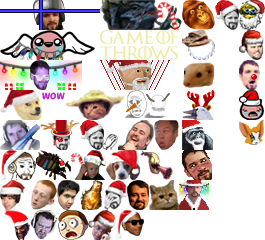
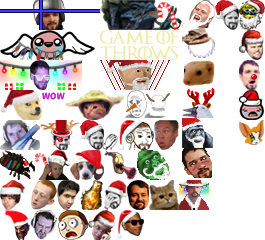
version bump, xmas emote engagement part2

Changed region(s): [[0.0, 0.4958, 0.6642, 0.7583], [0.6642, 0.0, 0.8151, 0.7583], [0.5434, 0.0292, 0.6038, 0.0875]]

diff --git a/static/chat/css/style.min.css b/static/chat/css/style.min.css
@@ -1,1 +1,1 @@
-.nano{position:relative;width:100%;height:100%;overflow:hidden}.nano .content{position:absolute;overflow:scroll;overflow-x:hidden;top:0;right:0;bottom:0;left:0}.nano .content:focus{outline:0}.nano .content::-webkit-scrollbar{visibility:hidden}.has-scrollbar .content::-webkit-scrollbar{visibility:visible}.nano:hover>.pane,.pane.active,.pane.flashed{visibility:visible\9;opacity:.99}.nano>.pane{background:rgba(0,0,0,0.3);position:absolute;width:8px;right:5px;top:0;bottom:0;visibility:hidden\9;opacity:.01;-webkit-transition:.2s;-moz-transition:.2s;-o-transition:.2s;transition:.2s}.nano>.pane>.slider{background:#999;position:relative;margin:0 1px;-moz-border-radius:3px;-webkit-border-radius:3px;border-radius:3px}.nano>.pane>.slider:hover,.nano>.pane.active>.slider{background:#eee}.serif{font-family:"Trebuchet MS",sans-serif}.chat{position:relative;width:100%;height:100%;min-width:300px}.chat-output-frame{margin-bottom:35px;height:auto;width:100%;position:absolute;overflow:hidden;top:0;bottom:0;left:0;right:0}.chat-output{width:100%;height:100%}.chat-output .chat-lines{-webkit-backface-visibility:hidden;-webkit-perspective:1000}.chat-lines>div{clear:both;word-wrap:break-word;padding:3px 20px 3px 5px}.chat-lines>div .continue{user-select:none;color:#444}.chat-lines>div i.continue{user-select:none;color:#222}.chat-lines a.user{font-weight:bold;cursor:pointer;font-family:"Trebuchet MS",sans-serif}.chat-lines hr{margin:8px 0}.chat-lines .msg.emote{font-style:italic}.chat-input{width:100%;position:absolute;bottom:0}#chat-top-frame{position:absolute;top:0;left:0;right:0}#chat-bottom-frame{position:absolute;bottom:35px;left:0;right:0}.chat-input>div{margin:5px 0 0 0;background:#2e2e2e}.chat-tools-wrap{position:absolute;right:0;bottom:0;margin:0;user-select:none;-moz-user-select:none;-webkit-user-select:none}.chat-input-wrap{margin:0;margin-right:60px}#user-mute-form,#user-ban-form{margin-top:10px;display:none}#user-mute-form #banTimeLength{width:150px}.chat-input-control{padding:3px 0 0 5px;height:28px;margin:1px;border-radius:3px}.chat-input-control .input{background:0;resize:none;margin:0;padding:0;width:100%;border:0;border-radius:0;box-shadow:none;box-sizing:border-box}.chat-input-control .input:focus{box-shadow:none}.chat-tools-wrap>div{height:30px;overflow:hidden}.chat-tools-wrap .iconbtn{cursor:pointer;width:30px;height:28px;line-height:28px;float:left;display:block;text-align:center;color:#555}.chat-tools-wrap .iconbtn:hover{color:white}.chat-tools-wrap .iconbtn.active{color:white}.chat .chat-lines i[class^="icon-"]{width:16px;line-height:16px;height:16px;margin:0;opacity:1;display:inline-block;vertical-align:middle}.chat-input-control input,.chat-lines{font-family:Helvetica,"Trebuchet MS",Verdana,sans-serif;font-size:13px;line-height:1.5em}.chat-lines time{font-size:11px}.chat-lines a.externallink{color:#02c2ff}.chat-lines a.externallink:visited{color:#004d74}.chat-lines a.externallink:hover,.chat-lines a.externallink:focus{color:#08c}.chat-lines a.nsfw-link{border-bottom:1px dashed red}.chat .chat-lines time,.chat .user-msg i{display:none!important}.chat.chat-time .chat-lines time,.chat.chat-icons .user-msg i,.chat-lines i[class*='icon-subscriber']{display:inline-block!important}.chat-theme-dark{background:#080808;border-radius:0}.chat-theme-dark .chat-input-wrap{border:0}.chat-theme-dark .chat-lines time{color:#414141}.chat-theme-dark .chat-lines>div.highlight time,.chat-lines>div.highlight .continue{color:#838383}.chat-theme-dark .chat-lines>.command-msg,.chat-theme-dark .chat-lines>.error-msg,.chat-theme-dark .chat-lines>.status-msg,.chat-theme-dark .chat-lines>.ui-msg,.chat-theme-dark .chat-lines>.own-msg,.chat-theme-dark .chat-lines>.highlight{color:#dedede}.chat-theme-dark .chat-lines>.broadcast-msg .msg{color:#edea12}.chat-theme-dark .chat-lines>.broadcast-msg{background:linear-gradient(to right,rgba(255,255,21,0.1) 0,rgba(255,255,255,0) 90%,rgba(255,255,255,0) 100%)}.chat-theme-dark .chat-lines>.own-msg{background:linear-gradient(to right,rgba(255,255,255,0.05) 0,rgba(255,255,255,0.05) 90%,rgba(255,255,255,0) 100%)}.chat-theme-dark .chat-lines>.highlight{background:linear-gradient(to right,rgba(0,150,255,0.5) 0,rgba(0,150,255,0) 100%)}.chat-theme-dark .chat-lines>.command-msg,.chat-theme-dark .chat-lines>.own-msg,.chat-theme-dark .chat-lines>.highlight .msg,.chat-theme-dark .chat-lines>.broadcast-msg .msg{text-shadow:1px 1px 0 rgba(0,0,0,0.5)}.chat-theme-dark .chat-input-control{background:#090909;border:0}.chat-theme-dark .chat-input-control input{color:#9e9e9e;background:#090909;text-shadow:none;outline:0}.chat-theme-dark input:input-placeholder{color:#222}.chat-theme-dark input::-webkit-input-placeholder{color:#222}.chat-theme-dark input:-moz-placeholder{color:#222}.chat-theme-dark input::-moz-placeholder{color:#222}.chat-theme-dark input:-ms-input-placeholder{color:#222}.chat-theme-dark .nano>.pane{background:rgba(0,0,0,0.3);width:8px;right:5px;top:5px;bottom:0}.chat-theme-dark .nano>.pane>.slider{background:#999}.chat-theme-dark .nano>.pane>.slider:hover,.chat-theme-dark .nano>.pane.active>.slider{background:#eee}.chat.focus-user .chat-lines>.user-msg{opacity:.3}.chat.focus-user .chat-lines>.user-msg.focused,.chat.focus-user .chat-lines>.user-msg.highlight{opacity:1}.chat .alert{margin-bottom:0;padding-top:4px;padding-bottom:4px;font-size:12px}.hint-popup,.user-tools{width:100%;top:-5px;left:0}.hint-popup>div,.user-tools>div,#chat-broadcasts>div{border-radius:4px;margin:5px 20px 5px 5px}.user-tools .user-tools-user{font-family:"Trebuchet MS",sans-serif}#chat-broadcasts .chat-emote{display:none}.hint-popup>div{box-shadow:0 2px 6px rgba(0,0,0,0.9);padding:0}.hint-popup a:hover{cursor:pointer;color:#6aa7f9}.hint-popup .hidehint,.hint-popup .nexthint{top:0;position:relative;float:right;right:-23px;line-height:20px;-webkit-touch-callout:none;-webkit-user-select:none;-khtml-user-select:none;-moz-user-select:none;-ms-user-select:none;user-select:none;color:#CCC}.hint-popup .hidehint{right:-27px}.hint-popup .hidehint:hover,.hint-popup .nexthint:hover{color:#111}.hint-popup .alert{padding-right:35px}.user-tools-wrap{margin-left:-5px}.user-tools-wrap>a{margin:0 5px}.chat-menu,.user-tools,.hint-popup{display:none;opacity:0}.chat-menu.active,.user-tools.active,.hint-popup.active{display:block;opacity:1}.chat-menu,.user-tools,.hint-popup{font-size:12px}.chat-menu{position:absolute;right:20px;bottom:-5px;width:240px}.chat-menu.active{bottom:0}.chat-menu h5,.user-tools h5{text-shadow:-1px -1px 0 rgba(0,0,0,0.25);user-select:none;-moz-user-select:none;-webkit-user-select:none;background:#4f4f4f;background:linear-gradient(to bottom,#4f4f4f 0,#2e2e2e 100%);border-bottom:1px solid #121212;margin:0;line-height:20px;display:block;padding:5px 15px 5px 10px;border-radius:4px 4px 0 0}.chat-menu .toolbar{width:100%;position:absolute;top:-31px;left:0}.chat-menu li,.chat-menu label{font-size:12px}.chat-menu label{font-weight:normal;margin:0 0 5px 0}.chat-menu label:hover{color:white}.chat-menu .list-wrap,.chat-menu .list-wrap .scrollable{max-height:330px;font-size:.9em}.chat-menu .list-wrap,.user-tools>div{box-shadow:0 2px 6px rgba(0,0,0,0.9);border-radius:0 0 4px 4px;background:rgba(25,25,25,0.9);padding:0}.chat-menu .list-wrap{margin-top:auto}.chat-menu ul,.user-tools .tools{padding:0 10px;margin:10px 0}.chat-menu ul>li:first-child h5{margin-top:0}.chat-menu ul li{text-overflow:ellipsis;overflow:hidden}#chat-user-list ul li{line-height:18px}#chat-user-list h6:first-child{margin-top:10px}#chat-user-list h6{font-weight:bold;margin:0 0 5px 5px}#chat-user-list hr{margin:5px 0}#chat-user-list ul{margin:0}#chat-user-list .user{cursor:pointer;font-family:"Trebuchet MS",sans-serif}.user-tools a#unignoreuser,.user-tools.user-ignored a#ignoreuser{display:none}.user-tools.user-ignored a#unignoreuser{display:inline-block}.chat-menu .nano>.pane{width:8px;right:3px;top:3px;bottom:3px}.chat-login-msg{display:inline-block;width:100%;padding:0 0 0 5px;line-height:30px;color:rgba(255,255,255,0.5);text-shadow:-1px -1px 0 rgba(0,0,0,0.25)}.chat-lines .emotecount{color:white;text-shadow:1px 1px 0 rgba(0,0,0,0.9);font-size:10px;line-height:10px;border-radius:10px;padding:3px 6px;margin:0 0 0 5px;background:#191919}.chat-lines .emotecount{text-shadow:none;animation:emotecount 600ms 1;-webkit-animation:emotecount 600ms 1}@keyframes emotecount{from{color:black;background-color:white}to{color:white;background-color:#333}}@-webkit-keyframes emotecount{from{color:black;background-color:white}to{color:white;background-color:#333}}.chat-lines .emotecount.x5>span{font-size:10px}.chat-lines .emotecount.x10>span{font-size:16px}.chat-lines .emotecount.x20>span{font-size:25px;vertical-align:middle}.chat-lines .emotecount.x30>span{font-size:35px;vertical-align:middle}.chat-lines .emotecount.x50>span{font-size:40px;vertical-align:middle}.chat a.user{color:#cacaca}.chat a.user:hover{color:#fafafa}.chat a.subscriber{color:#488ce7}.chat a.subscriber:hover{color:#6aa7f9}.chat a.flair3{color:#0060ff;text-shadow:1px 1px 0 black}.chat a.flair3:hover{color:#6aa7f9}.chat a.flair8{color:#a427d6;text-shadow:1px 1px 0 black}.chat a.flair8:hover{color:#e564f4}.chat a.vip{color:#4db524}.chat a.vip:hover{color:#4db524}.chat a.bot{color:#e79015}.chat a.bot:hover{color:#e79015}.chat a.admin{color:#b91010}.chat a.admin:hover{color:#f00}.chat .greentext{color:#6ca528}.chat-emote{display:inline-block;position:relative;top:10px;margin:0 2px}.chat-emote.chat-emote-OverRustle{animation:rustle 100ms 7;-webkit-animation:rustle 100ms 7}.chat-emote.chat-emote-OverRustle:hover{animation:rustle1 100ms infinite;-webkit-animation:rustle1 100ms infinite}@keyframes rustle{from{left:0}to{left:2px}}@-webkit-keyframes rustle{from{left:0}to{left:2px}}@keyframes rustle1{from{left:0}to{left:2px}}@-webkit-keyframes rustle1{from{left:0}to{left:2px}}.chat-emote.chat-emote-AYYYLMAO,.chat-emote.chat-emote-AngelThump,.chat-emote.chat-emote-WORTH,.chat-emote.chat-emote-Abathur,.chat-emote.chat-emote-GameOfThrows,.chat-emote.chat-emote-DANKMEMES,.chat-emote.chat-emote-SoDoge,.chat-emote.chat-emote-KINGSLY,.chat-emote.chat-emote-SoSad,.chat-emote.chat-emote-SOTRIGGERED,.chat-emote.chat-emote-DappaKappa,.chat-emote.chat-emote-Klappa,.chat-emote.chat-emote-LUL,.chat-emote.chat-emote-DaFeels,.chat-emote.chat-emote-INFESTINY,.chat-emote.chat-emote-FeedNathan,.chat-emote.chat-emote-FrankerZ,.chat-emote.chat-emote-SURPRISE,.chat-emote.chat-emote-OverRustle,.chat-emote.chat-emote-Hhhehhehe,.chat-emote.chat-emote-FerretLOL,.chat-emote.chat-emote-DuckerZ,.chat-emote.chat-emote-NoTears,.chat-emote.chat-emote-DestiSenpaii,.chat-emote.chat-emote-CallChad,.chat-emote.chat-emote-WhoahDude,.chat-emote.chat-emote-UWOTM8,.chat-emote.chat-emote-TooSpicy,.chat-emote.chat-emote-Sippy,.chat-emote.chat-emote-OhKrappa,.chat-emote.chat-emote-Nappa,.chat-emote.chat-emote-MotherFuckinGame,.chat-emote.chat-emote-MLADY,.chat-emote.chat-emote-Kappa,.chat-emote.chat-emote-Heimerdonger,.chat-emote.chat-emote-Dravewin,.chat-emote.chat-emote-Disgustiny,.chat-emote.chat-emote-DatGeoff,.chat-emote.chat-emote-DURRSTINY,.chat-emote.chat-emote-DAFUK,.chat-emote.chat-emote-CallCatz,.chat-emote.chat-emote-BibleThump,.chat-emote.chat-emote-BasedGod,.chat-emote.chat-emote-FIDGETLOL{background-image:url('../img/emoticons.png');background-repeat:no-repeat}.chat-emote.chat-emote-AYYYLMAO{background-position:0 0;width:100px;height:30px;margin-top:-30px}.chat-emote.chat-emote-AngelThump{background-position:0 -30px;width:95px;height:30px;margin-top:-30px}.chat-emote.chat-emote-WORTH{background-position:0 -60px;width:82px;height:30px;margin-top:-30px}.chat-emote.chat-emote-Abathur{background-position:-100px 0;width:82px;height:30px;margin-top:-30px}.chat-emote.chat-emote-GameOfThrows{background-position:-100px -30px;width:79px;height:30px;margin-top:-30px}.chat-emote.chat-emote-DANKMEMES{background-position:-100px -60px;width:71px;height:30px;margin-top:-30px}.chat-emote.chat-emote-SoDoge{background-position:0 -90px;width:65px;height:30px;margin-top:-30px}.chat-emote.chat-emote-KINGSLY{background-position:-65px -90px;width:60px;height:30px;margin-top:-30px}.chat-emote.chat-emote-SoSad{background-position:-125px -90px;width:45px;height:28px;margin-top:-28px}.chat-emote.chat-emote-SOTRIGGERED{background-position:0 -120px;width:40px;height:30px;margin-top:-30px}.chat-emote.chat-emote-DappaKappa{background-position:-40px -120px;width:40px;height:30px;margin-top:-30px}.chat-emote.chat-emote-Klappa{background-position:-80px -120px;width:38px;height:30px;margin-top:-30px}.chat-emote.chat-emote-LUL{background-position:-118px -120px;width:36px;height:30px;margin-top:-30px}.chat-emote.chat-emote-DaFeels{background-position:0 -150px;width:36px;height:30px;margin-top:-30px}.chat-emote.chat-emote-INFESTINY{background-position:-36px -150px;width:35px;height:30px;margin-top:-30px}.chat-emote.chat-emote-FeedNathan{background-position:-71px -150px;width:35px;height:30px;margin-top:-30px}.chat-emote.chat-emote-FrankerZ{background-position:-106px -150px;width:34px;height:30px;margin-top:-30px}.chat-emote.chat-emote-SURPRISE{background-position:-140px -150px;width:33px;height:30px;margin-top:-30px}.chat-emote.chat-emote-OverRustle{background-position:-182px 0;width:33px;height:30px;margin-top:-30px}.chat-emote.chat-emote-Hhhehhehe{background-position:-182px -30px;width:33px;height:30px;margin-top:-30px}.chat-emote.chat-emote-FerretLOL{background-position:-182px -60px;width:33px;height:30px;margin-top:-30px}.chat-emote.chat-emote-DuckerZ{background-position:-182px -90px;width:33px;height:30px;margin-top:-30px}.chat-emote.chat-emote-NoTears{background-position:-182px -120px;width:31px;height:30px;margin-top:-30px}.chat-emote.chat-emote-DestiSenpaii{background-position:-182px -150px;width:31px;height:30px;margin-top:-30px}.chat-emote.chat-emote-CallChad{background-position:0 -180px;width:31px;height:30px;margin-top:-30px}.chat-emote.chat-emote-WhoahDude{background-position:-154px -120px;width:25px;height:30px;margin-top:-30px}.chat-emote.chat-emote-UWOTM8{background-position:-31px -180px;width:26px;height:30px;margin-top:-30px}.chat-emote.chat-emote-TooSpicy{background-position:-57px -180px;width:23px;height:30px;margin-top:-30px}.chat-emote.chat-emote-Sippy{background-position:-80px -180px;width:24px;height:30px;margin-top:-30px}.chat-emote.chat-emote-OhKrappa{background-position:-104px -180px;width:23px;height:30px;margin-top:-30px}.chat-emote.chat-emote-Nappa{background-position:-127px -180px;width:22px;height:30px;margin-top:-30px}.chat-emote.chat-emote-MotherFuckinGame{background-position:-149px -180px;width:30px;height:30px;margin-top:-30px}.chat-emote.chat-emote-MLADY{background-position:-179px -180px;width:30px;height:30px;margin-top:-30px}.chat-emote.chat-emote-Kappa{background-position:-215px 0;width:24px;height:30px;margin-top:-30px}.chat-emote.chat-emote-Heimerdonger{background-position:-239px 0;width:26px;height:30px;margin-top:-30px}.chat-emote.chat-emote-Dravewin{background-position:0 -210px;width:30px;height:30px;margin-top:-30px}.chat-emote.chat-emote-Disgustiny{background-position:-30px -210px;width:28px;height:30px;margin-top:-30px}.chat-emote.chat-emote-DatGeoff{background-position:-239px -30px;width:25px;height:30px;margin-top:-30px}.chat-emote.chat-emote-DURRSTINY{background-position:-239px -60px;width:21px;height:30px;margin-top:-30px}.chat-emote.chat-emote-DAFUK{background-position:-58px -210px;width:30px;height:30px;margin-top:-30px}.chat-emote.chat-emote-CallCatz{background-position:-88px -210px;width:28px;height:30px;margin-top:-30px}.chat-emote.chat-emote-BibleThump{background-position:-239px -90px;width:25px;height:30px;margin-top:-30px}.chat-emote.chat-emote-BasedGod{background-position:-116px -210px;width:28px;height:29px;margin-top:-29px}.chat-emote.chat-emote-FIDGETLOL{background-position:-239px -120px;width:25px;height:25px;margin-top:-25px}.icon-subscriber,.icon-subscribert2,.icon-subscribert3,.icon-subscribert4{-webkit-transform:rotate(0deg);-webkit-transition:rotate .2s ease-in-out;-moz-transition:rotate .2s ease-in-out;-o-transition:rotate .2s ease-in-out;transition:rotate .2s ease-in-out}.icon-subscriber:hover,.icon-subscribert2:hover,.icon-subscribert3:hover,.icon-subscribert4:hover{-moz-animation:spin 3s infinite linear;-webkit-animation:spin 3s infinite linear}.icon-vip:hover,.icon-vip,.icon-trusted,.icon-subscribert4,.icon-subscribert3,.icon-subscribert2,.icon-subscriber,.icon-status,.icon-notable,.icon-moderator,.icon-info,.icon-evenotable,.icon-error,.icon-contributor,.icon-compchallenge:hover,.icon-compchallenge,.icon-command,.icon-bot:hover,.icon-bot,.icon-admin:hover,.icon-admin{background-image:url('../img/icons.png');background-repeat:no-repeat}.icon-vip:hover{background-position:0 0;width:16px;height:16px}.icon-vip{background-position:-16px 0;width:16px;height:16px}.icon-trusted{background-position:0 -16px;width:16px;height:16px}.icon-subscribert4{background-position:-16px -16px;width:16px;height:16px}.icon-subscribert3{background-position:-32px 0;width:16px;height:16px}.icon-subscribert2{background-position:-32px -16px;width:16px;height:16px}.icon-subscriber{background-position:0 -32px;width:16px;height:16px}.icon-status{background-position:-16px -32px;width:16px;height:16px}.icon-notable{background-position:-32px -32px;width:16px;height:16px}.icon-moderator{background-position:-48px 0;width:16px;height:16px}.icon-info{background-position:-48px -16px;width:16px;height:16px}.icon-evenotable{background-position:-48px -32px;width:16px;height:16px}.icon-error{background-position:0 -48px;width:16px;height:16px}.icon-contributor{background-position:-16px -48px;width:16px;height:16px}.icon-compchallenge:hover{background-position:-32px -48px;width:16px;height:16px}.icon-compchallenge{background-position:-48px -48px;width:16px;height:16px}.icon-command{background-position:-64px 0;width:16px;height:16px}.icon-bot:hover{background-position:-64px -16px;width:16px;height:16px}.icon-bot{background-position:-64px -32px;width:16px;height:16px}.icon-admin:hover{background-position:-64px -48px;width:16px;height:16px}.icon-admin{background-position:0 -64px;width:16px;height:16px}
+.nano{position:relative;width:100%;height:100%;overflow:hidden}.nano .content{position:absolute;overflow:scroll;overflow-x:hidden;top:0;right:0;bottom:0;left:0}.nano .content:focus{outline:0}.nano .content::-webkit-scrollbar{visibility:hidden}.has-scrollbar .content::-webkit-scrollbar{visibility:visible}.nano:hover>.pane,.pane.active,.pane.flashed{visibility:visible\9;opacity:.99}.nano>.pane{background:rgba(0,0,0,0.3);position:absolute;width:8px;right:5px;top:0;bottom:0;visibility:hidden\9;opacity:.01;-webkit-transition:.2s;-moz-transition:.2s;-o-transition:.2s;transition:.2s}.nano>.pane>.slider{background:#999;position:relative;margin:0 1px;-moz-border-radius:3px;-webkit-border-radius:3px;border-radius:3px}.nano>.pane>.slider:hover,.nano>.pane.active>.slider{background:#eee}.serif{font-family:"Trebuchet MS",sans-serif}.chat{position:relative;width:100%;height:100%;min-width:300px}.chat-output-frame{margin-bottom:35px;height:auto;width:100%;position:absolute;overflow:hidden;top:0;bottom:0;left:0;right:0}.chat-output{width:100%;height:100%}.chat-output .chat-lines{-webkit-backface-visibility:hidden;-webkit-perspective:1000}.chat-lines>div{clear:both;word-wrap:break-word;padding:3px 20px 3px 5px}.chat-lines>div .continue{user-select:none;color:#444}.chat-lines>div i.continue{user-select:none;color:#222}.chat-lines a.user{font-weight:bold;cursor:pointer;font-family:"Trebuchet MS",sans-serif}.chat-lines hr{margin:8px 0}.chat-lines .msg.emote{font-style:italic}.chat-input{width:100%;position:absolute;bottom:0}#chat-top-frame{position:absolute;top:0;left:0;right:0}#chat-bottom-frame{position:absolute;bottom:35px;left:0;right:0}.chat-input>div{margin:5px 0 0 0;background:#2e2e2e}.chat-tools-wrap{position:absolute;right:0;bottom:0;margin:0;user-select:none;-moz-user-select:none;-webkit-user-select:none}.chat-input-wrap{margin:0;margin-right:60px}#user-mute-form,#user-ban-form{margin-top:10px;display:none}#user-mute-form #banTimeLength{width:150px}.chat-input-control{padding:3px 0 0 5px;height:28px;margin:1px;border-radius:3px}.chat-input-control .input{background:0;resize:none;margin:0;padding:0;width:100%;border:0;border-radius:0;box-shadow:none;box-sizing:border-box}.chat-input-control .input:focus{box-shadow:none}.chat-tools-wrap>div{height:30px;overflow:hidden}.chat-tools-wrap .iconbtn{cursor:pointer;width:30px;height:28px;line-height:28px;float:left;display:block;text-align:center;color:#555}.chat-tools-wrap .iconbtn:hover{color:white}.chat-tools-wrap .iconbtn.active{color:white}.chat .chat-lines i[class^="icon-"]{width:16px;line-height:16px;height:16px;margin:0;opacity:1;display:inline-block;vertical-align:middle}.chat-input-control input,.chat-lines{font-family:Helvetica,"Trebuchet MS",Verdana,sans-serif;font-size:13px;line-height:1.5em}.chat-lines time{font-size:11px}.chat-lines a.externallink{color:#02c2ff}.chat-lines a.externallink:visited{color:#004d74}.chat-lines a.externallink:hover,.chat-lines a.externallink:focus{color:#08c}.chat-lines a.nsfw-link{border-bottom:1px dashed red}.chat .chat-lines time,.chat .user-msg i{display:none!important}.chat.chat-time .chat-lines time,.chat.chat-icons .user-msg i,.chat-lines i[class*='icon-subscriber']{display:inline-block!important}.chat-theme-dark{background:#080808;border-radius:0}.chat-theme-dark .chat-input-wrap{border:0}.chat-theme-dark .chat-lines time{color:#414141}.chat-theme-dark .chat-lines>div.highlight time,.chat-lines>div.highlight .continue{color:#838383}.chat-theme-dark .chat-lines>.command-msg,.chat-theme-dark .chat-lines>.error-msg,.chat-theme-dark .chat-lines>.status-msg,.chat-theme-dark .chat-lines>.ui-msg,.chat-theme-dark .chat-lines>.own-msg,.chat-theme-dark .chat-lines>.highlight{color:#dedede}.chat-theme-dark .chat-lines>.broadcast-msg .msg{color:#edea12}.chat-theme-dark .chat-lines>.broadcast-msg{background:linear-gradient(to right,rgba(255,255,21,0.1) 0,rgba(255,255,255,0) 90%,rgba(255,255,255,0) 100%)}.chat-theme-dark .chat-lines>.own-msg{background:linear-gradient(to right,rgba(255,255,255,0.05) 0,rgba(255,255,255,0.05) 90%,rgba(255,255,255,0) 100%)}.chat-theme-dark .chat-lines>.highlight{background:linear-gradient(to right,rgba(0,150,255,0.5) 0,rgba(0,150,255,0) 100%)}.chat-theme-dark .chat-lines>.command-msg,.chat-theme-dark .chat-lines>.own-msg,.chat-theme-dark .chat-lines>.highlight .msg,.chat-theme-dark .chat-lines>.broadcast-msg .msg{text-shadow:1px 1px 0 rgba(0,0,0,0.5)}.chat-theme-dark .chat-input-control{background:#090909;border:0}.chat-theme-dark .chat-input-control input{color:#9e9e9e;background:#090909;text-shadow:none;outline:0}.chat-theme-dark input:input-placeholder{color:#222}.chat-theme-dark input::-webkit-input-placeholder{color:#222}.chat-theme-dark input:-moz-placeholder{color:#222}.chat-theme-dark input::-moz-placeholder{color:#222}.chat-theme-dark input:-ms-input-placeholder{color:#222}.chat-theme-dark .nano>.pane{background:rgba(0,0,0,0.3);width:8px;right:5px;top:5px;bottom:0}.chat-theme-dark .nano>.pane>.slider{background:#999}.chat-theme-dark .nano>.pane>.slider:hover,.chat-theme-dark .nano>.pane.active>.slider{background:#eee}.chat.focus-user .chat-lines>.user-msg{opacity:.3}.chat.focus-user .chat-lines>.user-msg.focused,.chat.focus-user .chat-lines>.user-msg.highlight{opacity:1}.chat .alert{margin-bottom:0;padding-top:4px;padding-bottom:4px;font-size:12px}.hint-popup,.user-tools{width:100%;top:-5px;left:0}.hint-popup>div,.user-tools>div,#chat-broadcasts>div{border-radius:4px;margin:5px 20px 5px 5px}.user-tools .user-tools-user{font-family:"Trebuchet MS",sans-serif}#chat-broadcasts .chat-emote{display:none}.hint-popup>div{box-shadow:0 2px 6px rgba(0,0,0,0.9);padding:0}.hint-popup a:hover{cursor:pointer;color:#6aa7f9}.hint-popup .hidehint,.hint-popup .nexthint{top:0;position:relative;float:right;right:-23px;line-height:20px;-webkit-touch-callout:none;-webkit-user-select:none;-khtml-user-select:none;-moz-user-select:none;-ms-user-select:none;user-select:none;color:#CCC}.hint-popup .hidehint{right:-27px}.hint-popup .hidehint:hover,.hint-popup .nexthint:hover{color:#111}.hint-popup .alert{padding-right:35px}.user-tools-wrap{margin-left:-5px}.user-tools-wrap>a{margin:0 5px}.chat-menu,.user-tools,.hint-popup{display:none;opacity:0}.chat-menu.active,.user-tools.active,.hint-popup.active{display:block;opacity:1}.chat-menu,.user-tools,.hint-popup{font-size:12px}.chat-menu{position:absolute;right:20px;bottom:-5px;width:240px}.chat-menu.active{bottom:0}.chat-menu h5,.user-tools h5{text-shadow:-1px -1px 0 rgba(0,0,0,0.25);user-select:none;-moz-user-select:none;-webkit-user-select:none;background:#4f4f4f;background:linear-gradient(to bottom,#4f4f4f 0,#2e2e2e 100%);border-bottom:1px solid #121212;margin:0;line-height:20px;display:block;padding:5px 15px 5px 10px;border-radius:4px 4px 0 0}.chat-menu .toolbar{width:100%;position:absolute;top:-31px;left:0}.chat-menu li,.chat-menu label{font-size:12px}.chat-menu label{font-weight:normal;margin:0 0 5px 0}.chat-menu label:hover{color:white}.chat-menu .list-wrap,.chat-menu .list-wrap .scrollable{max-height:330px;font-size:.9em}.chat-menu .list-wrap,.user-tools>div{box-shadow:0 2px 6px rgba(0,0,0,0.9);border-radius:0 0 4px 4px;background:rgba(25,25,25,0.9);padding:0}.chat-menu .list-wrap{margin-top:auto}.chat-menu ul,.user-tools .tools{padding:0 10px;margin:10px 0}.chat-menu ul>li:first-child h5{margin-top:0}.chat-menu ul li{text-overflow:ellipsis;overflow:hidden}#chat-user-list ul li{line-height:18px}#chat-user-list h6:first-child{margin-top:10px}#chat-user-list h6{font-weight:bold;margin:0 0 5px 5px}#chat-user-list hr{margin:5px 0}#chat-user-list ul{margin:0}#chat-user-list .user{cursor:pointer;font-family:"Trebuchet MS",sans-serif}.user-tools a#unignoreuser,.user-tools.user-ignored a#ignoreuser{display:none}.user-tools.user-ignored a#unignoreuser{display:inline-block}.chat-menu .nano>.pane{width:8px;right:3px;top:3px;bottom:3px}.chat-login-msg{display:inline-block;width:100%;padding:0 0 0 5px;line-height:30px;color:rgba(255,255,255,0.5);text-shadow:-1px -1px 0 rgba(0,0,0,0.25)}.chat-lines .emotecount{color:white;text-shadow:1px 1px 0 rgba(0,0,0,0.9);font-size:10px;line-height:10px;border-radius:10px;padding:3px 6px;margin:0 0 0 5px;background:#191919}.chat-lines .emotecount{text-shadow:none;animation:emotecount 600ms 1;-webkit-animation:emotecount 600ms 1}@keyframes emotecount{from{color:black;background-color:white}to{color:white;background-color:#333}}@-webkit-keyframes emotecount{from{color:black;background-color:white}to{color:white;background-color:#333}}.chat-lines .emotecount.x5>span{font-size:10px}.chat-lines .emotecount.x10>span{font-size:16px}.chat-lines .emotecount.x20>span{font-size:25px;vertical-align:middle}.chat-lines .emotecount.x30>span{font-size:35px;vertical-align:middle}.chat-lines .emotecount.x50>span{font-size:40px;vertical-align:middle}.chat a.user{color:#cacaca}.chat a.user:hover{color:#fafafa}.chat a.subscriber{color:#488ce7}.chat a.subscriber:hover{color:#6aa7f9}.chat a.flair3{color:#0060ff;text-shadow:1px 1px 0 black}.chat a.flair3:hover{color:#6aa7f9}.chat a.flair8{color:#a427d6;text-shadow:1px 1px 0 black}.chat a.flair8:hover{color:#e564f4}.chat a.vip{color:#4db524}.chat a.vip:hover{color:#4db524}.chat a.bot{color:#e79015}.chat a.bot:hover{color:#e79015}.chat a.admin{color:#b91010}.chat a.admin:hover{color:#f00}.chat .greentext{color:#6ca528}.chat-emote{display:inline-block;position:relative;top:10px;margin:0 2px}.chat-emote.chat-emote-OverRustle{animation:rustle 100ms 7;-webkit-animation:rustle 100ms 7}.chat-emote.chat-emote-OverRustle:hover{animation:rustle1 100ms infinite;-webkit-animation:rustle1 100ms infinite}@keyframes rustle{from{left:0}to{left:2px}}@-webkit-keyframes rustle{from{left:0}to{left:2px}}@keyframes rustle1{from{left:0}to{left:2px}}@-webkit-keyframes rustle1{from{left:0}to{left:2px}}.chat-emote.chat-emote-AYYYLMAO,.chat-emote.chat-emote-AngelThump,.chat-emote.chat-emote-WORTH,.chat-emote.chat-emote-Abathur,.chat-emote.chat-emote-GameOfThrows,.chat-emote.chat-emote-DANKMEMES,.chat-emote.chat-emote-SoDoge,.chat-emote.chat-emote-KINGSLY,.chat-emote.chat-emote-SoSad,.chat-emote.chat-emote-SOTRIGGERED,.chat-emote.chat-emote-DappaKappa,.chat-emote.chat-emote-Klappa,.chat-emote.chat-emote-DaFeels,.chat-emote.chat-emote-INFESTINY,.chat-emote.chat-emote-FeedNathan,.chat-emote.chat-emote-FrankerZ,.chat-emote.chat-emote-SURPRISE,.chat-emote.chat-emote-OverRustle,.chat-emote.chat-emote-LUL,.chat-emote.chat-emote-Hhhehhehe,.chat-emote.chat-emote-FerretLOL,.chat-emote.chat-emote-DuckerZ,.chat-emote.chat-emote-NoTears,.chat-emote.chat-emote-DestiSenpaii,.chat-emote.chat-emote-CallChad,.chat-emote.chat-emote-WhoahDude,.chat-emote.chat-emote-UWOTM8,.chat-emote.chat-emote-TooSpicy,.chat-emote.chat-emote-Sippy,.chat-emote.chat-emote-OhKrappa,.chat-emote.chat-emote-Nappa,.chat-emote.chat-emote-MotherFuckinGame,.chat-emote.chat-emote-MLADY,.chat-emote.chat-emote-Kappa,.chat-emote.chat-emote-Heimerdonger,.chat-emote.chat-emote-Dravewin,.chat-emote.chat-emote-Disgustiny,.chat-emote.chat-emote-DatGeoff,.chat-emote.chat-emote-DURRSTINY,.chat-emote.chat-emote-DAFUK,.chat-emote.chat-emote-CallCatz,.chat-emote.chat-emote-BibleThump,.chat-emote.chat-emote-BasedGod,.chat-emote.chat-emote-FIDGETLOL{background-image:url('../img/emoticons.png');background-repeat:no-repeat}.chat-emote.chat-emote-AYYYLMAO{background-position:0 0;width:100px;height:30px;margin-top:-30px}.chat-emote.chat-emote-AngelThump{background-position:0 -30px;width:95px;height:30px;margin-top:-30px}.chat-emote.chat-emote-WORTH{background-position:0 -60px;width:82px;height:30px;margin-top:-30px}.chat-emote.chat-emote-Abathur{background-position:-100px 0;width:82px;height:30px;margin-top:-30px}.chat-emote.chat-emote-GameOfThrows{background-position:-100px -30px;width:79px;height:30px;margin-top:-30px}.chat-emote.chat-emote-DANKMEMES{background-position:-100px -60px;width:71px;height:30px;margin-top:-30px}.chat-emote.chat-emote-SoDoge{background-position:0 -90px;width:65px;height:30px;margin-top:-30px}.chat-emote.chat-emote-KINGSLY{background-position:-65px -90px;width:60px;height:30px;margin-top:-30px}.chat-emote.chat-emote-SoSad{background-position:-125px -90px;width:45px;height:28px;margin-top:-28px}.chat-emote.chat-emote-SOTRIGGERED{background-position:0 -120px;width:40px;height:30px;margin-top:-30px}.chat-emote.chat-emote-DappaKappa{background-position:-40px -120px;width:40px;height:30px;margin-top:-30px}.chat-emote.chat-emote-Klappa{background-position:-80px -120px;width:38px;height:30px;margin-top:-30px}.chat-emote.chat-emote-DaFeels{background-position:-118px -120px;width:36px;height:30px;margin-top:-30px}.chat-emote.chat-emote-INFESTINY{background-position:0 -150px;width:35px;height:30px;margin-top:-30px}.chat-emote.chat-emote-FeedNathan{background-position:-35px -150px;width:35px;height:30px;margin-top:-30px}.chat-emote.chat-emote-FrankerZ{background-position:-70px -150px;width:34px;height:30px;margin-top:-30px}.chat-emote.chat-emote-SURPRISE{background-position:-104px -150px;width:33px;height:30px;margin-top:-30px}.chat-emote.chat-emote-OverRustle{background-position:-137px -150px;width:33px;height:30px;margin-top:-30px}.chat-emote.chat-emote-LUL{background-position:-182px 0;width:33px;height:28px;margin-top:-28px}.chat-emote.chat-emote-Hhhehhehe{background-position:-182px -28px;width:33px;height:30px;margin-top:-30px}.chat-emote.chat-emote-FerretLOL{background-position:-182px -58px;width:33px;height:30px;margin-top:-30px}.chat-emote.chat-emote-DuckerZ{background-position:-182px -88px;width:33px;height:30px;margin-top:-30px}.chat-emote.chat-emote-NoTears{background-position:-182px -118px;width:31px;height:30px;margin-top:-30px}.chat-emote.chat-emote-DestiSenpaii{background-position:-182px -148px;width:31px;height:30px;margin-top:-30px}.chat-emote.chat-emote-CallChad{background-position:0 -180px;width:31px;height:30px;margin-top:-30px}.chat-emote.chat-emote-WhoahDude{background-position:-154px -120px;width:25px;height:30px;margin-top:-30px}.chat-emote.chat-emote-UWOTM8{background-position:-31px -180px;width:26px;height:30px;margin-top:-30px}.chat-emote.chat-emote-TooSpicy{background-position:-57px -180px;width:23px;height:30px;margin-top:-30px}.chat-emote.chat-emote-Sippy{background-position:-80px -180px;width:24px;height:30px;margin-top:-30px}.chat-emote.chat-emote-OhKrappa{background-position:-104px -180px;width:23px;height:30px;margin-top:-30px}.chat-emote.chat-emote-Nappa{background-position:-127px -180px;width:22px;height:30px;margin-top:-30px}.chat-emote.chat-emote-MotherFuckinGame{background-position:-149px -180px;width:30px;height:30px;margin-top:-30px}.chat-emote.chat-emote-MLADY{background-position:-179px -180px;width:30px;height:30px;margin-top:-30px}.chat-emote.chat-emote-Kappa{background-position:-215px 0;width:24px;height:30px;margin-top:-30px}.chat-emote.chat-emote-Heimerdonger{background-position:-239px 0;width:26px;height:30px;margin-top:-30px}.chat-emote.chat-emote-Dravewin{background-position:0 -210px;width:30px;height:30px;margin-top:-30px}.chat-emote.chat-emote-Disgustiny{background-position:-30px -210px;width:28px;height:30px;margin-top:-30px}.chat-emote.chat-emote-DatGeoff{background-position:-239px -30px;width:25px;height:30px;margin-top:-30px}.chat-emote.chat-emote-DURRSTINY{background-position:-239px -60px;width:21px;height:30px;margin-top:-30px}.chat-emote.chat-emote-DAFUK{background-position:-58px -210px;width:30px;height:30px;margin-top:-30px}.chat-emote.chat-emote-CallCatz{background-position:-88px -210px;width:28px;height:30px;margin-top:-30px}.chat-emote.chat-emote-BibleThump{background-position:-239px -90px;width:25px;height:30px;margin-top:-30px}.chat-emote.chat-emote-BasedGod{background-position:-116px -210px;width:28px;height:29px;margin-top:-29px}.chat-emote.chat-emote-FIDGETLOL{background-position:-239px -120px;width:25px;height:25px;margin-top:-25px}.icon-subscriber,.icon-subscribert2,.icon-subscribert3,.icon-subscribert4{-webkit-transform:rotate(0deg);-webkit-transition:rotate .2s ease-in-out;-moz-transition:rotate .2s ease-in-out;-o-transition:rotate .2s ease-in-out;transition:rotate .2s ease-in-out}.icon-subscriber:hover,.icon-subscribert2:hover,.icon-subscribert3:hover,.icon-subscribert4:hover{-moz-animation:spin 3s infinite linear;-webkit-animation:spin 3s infinite linear}.icon-vip:hover,.icon-vip,.icon-trusted,.icon-subscribert4,.icon-subscribert3,.icon-subscribert2,.icon-subscriber,.icon-status,.icon-notable,.icon-moderator,.icon-info,.icon-evenotable,.icon-error,.icon-contributor,.icon-compchallenge:hover,.icon-compchallenge,.icon-command,.icon-bot:hover,.icon-bot,.icon-admin:hover,.icon-admin{background-image:url('../img/icons.png');background-repeat:no-repeat}.icon-vip:hover{background-position:0 0;width:16px;height:16px}.icon-vip{background-position:-16px 0;width:16px;height:16px}.icon-trusted{background-position:0 -16px;width:16px;height:16px}.icon-subscribert4{background-position:-16px -16px;width:16px;height:16px}.icon-subscribert3{background-position:-32px 0;width:16px;height:16px}.icon-subscribert2{background-position:-32px -16px;width:16px;height:16px}.icon-subscriber{background-position:0 -32px;width:16px;height:16px}.icon-status{background-position:-16px -32px;width:16px;height:16px}.icon-notable{background-position:-32px -32px;width:16px;height:16px}.icon-moderator{background-position:-48px 0;width:16px;height:16px}.icon-info{background-position:-48px -16px;width:16px;height:16px}.icon-evenotable{background-position:-48px -32px;width:16px;height:16px}.icon-error{background-position:0 -48px;width:16px;height:16px}.icon-contributor{background-position:-16px -48px;width:16px;height:16px}.icon-compchallenge:hover{background-position:-32px -48px;width:16px;height:16px}.icon-compchallenge{background-position:-48px -48px;width:16px;height:16px}.icon-command{background-position:-64px 0;width:16px;height:16px}.icon-bot:hover{background-position:-64px -16px;width:16px;height:16px}.icon-bot{background-position:-64px -32px;width:16px;height:16px}.icon-admin:hover{background-position:-64px -48px;width:16px;height:16px}.icon-admin{background-position:0 -64px;width:16px;height:16px}
